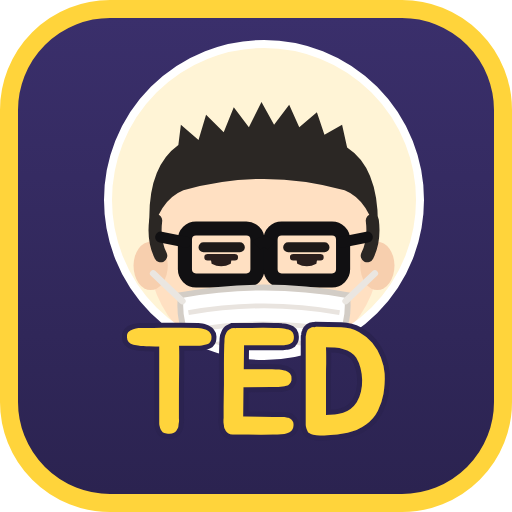
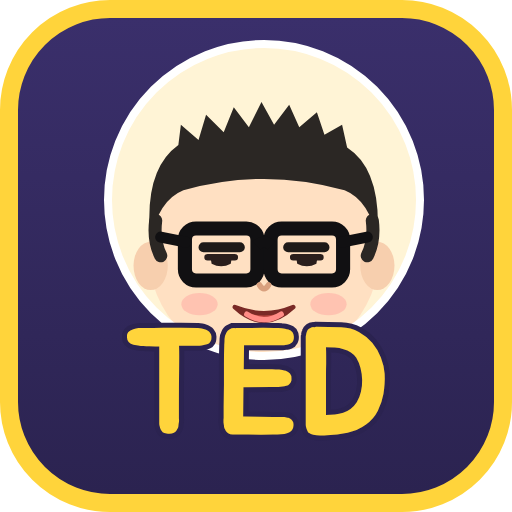
Ted 선생님 새 모습: 검정 세미와이드 슬랙스 · 넥타이 · 마스크 없이 부드러운 미소
- public/assets/characters/ted.svg: 치마 → 검정 세미와이드 일자 슬랙스(주름선) + 검정 로퍼,
  셔츠 단추 자리에 남색 넥타이, 마스크 빼고 부드럽게 웃는 입·볼터치·작은 코. 머리와 안경은 그대로
- 평소 모습(말풍선 얼굴 · 보드 안내 선생님 · 로고 배지 · 사격장/크레인/청크런에 나오는 선생님 · 아이콘 · 링크 미리보기)에 적용,
  미션 클리어 춤 장면은 원래 캐릭터 그대로
- 얼굴 자르기를 입까지 보이게, 3D 로고 배지는 불러온 캐릭터 그림으로 그려 빈 원으로 보이던 문제 수정

Claude-Session: https://claude.ai/code/session_01SuhkVt6GyaGLybW7PdixQW

Changed region(s): [[0.2812, 0.5312, 0.75, 0.6875]]

diff --git a/src/board/textures.js b/src/board/textures.js
@@ -63,7 +63,7 @@ export function logoSprite(w = 1.1) {
     x.lineWidth = 10; x.strokeStyle = '#FFD43B'; x.stroke();
     if (im) {
       // 선생님 얼굴: 그림 위쪽(머리)만 잘라서
-      const side = Math.min(im.width, im.height * 0.42);
+      const side = Math.min(im.width, im.height * 0.5);
       x.save(); x.beginPath(); x.arc(128, 104, 64, 0, Math.PI * 2); x.fillStyle = '#FFF4D6'; x.fill(); x.clip();
       x.drawImage(im, (im.width - side) / 2, 0, side, side, 128 - 60, 104 - 58, 120, 120);
       x.restore();
@@ -81,9 +81,8 @@ export function logoSprite(w = 1.1) {
     t.needsUpdate = true;
   };
   draw(null);
-  const im = new Image();
-  im.onload = () => draw(im);
-  im.src = `${import.meta.env.BASE_URL}assets/characters/ted.svg`;
+  // 선생님 그림은 캐릭터 불러오기(잘라 둔 캔버스)를 그대로 쓴다 — SVG를 바로 그리면 크기를 몰라 비어 보임
+  import('./charart.js').then(({ loadChar }) => loadChar('ted')).then((a) => draw(a.full)).catch(() => {});
   return s;
 }
 

diff --git a/src/board/charart.js b/src/board/charart.js
@@ -78,7 +78,7 @@ export function loadChar(id) {
       const st = sticker(full);
       // 얼굴: 위쪽에서 가로폭 기준 정사각형
       const f = document.createElement('canvas');
-      const side = Math.min(full.width, Math.round(full.height * 0.42));
+      const side = Math.min(full.width, Math.round(full.height * (id === 'ted' ? 0.5 : 0.42))); // Ted는 입까지 보이게
       f.width = 256; f.height = 256;
       const fx = f.getContext('2d');
       const sx = (full.width - side) / 2;
